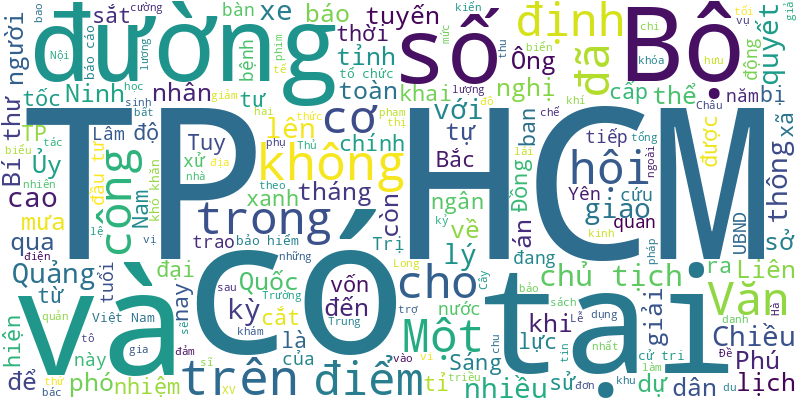
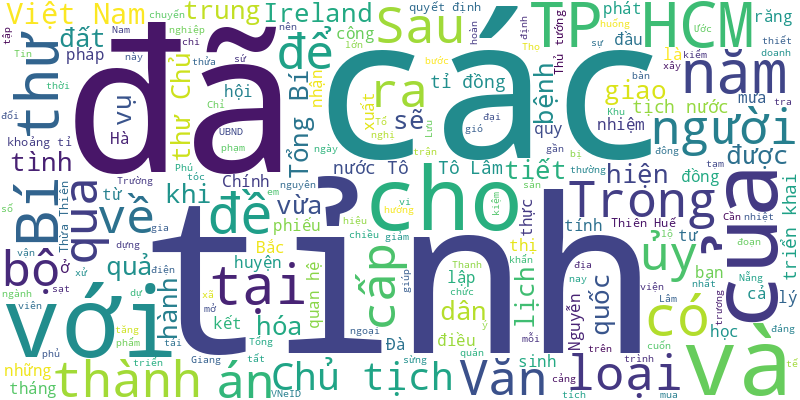
🍀 = 40%

diff --git a/README.md b/README.md
@@ -1,7 +1,18 @@
 # Tuoi Tre RSS 
 
 ## Giáo dục 
+- Giọng nghẹn ngào, em Nguyễn Hà Mi (học sinh lớp 9 Trường THCS Chuế Lưu, huyện Hạ Hòa, tỉnh Phú Thọ) kể về trận lũ đã cuốn trôi căn nhà của gia đình em.
+- Chiều ngày 2-10, tại Văn Miếu - Quốc Tử Giám, Thành Đoàn Hà Nội tổ chức lễ ghi danh sổ vàng thủ khoa xuất sắc thủ đô Hà Nội năm 2024.
+- Các khách mời của tọa đàm 'Đưa tiếng Anh trở thành ngôn ngữ thứ 2 trong trường học: Làm gì để vượt thách thức?' đã dành thời gian phân tích về thuận lợi, khó khăn, thách thức và tìm ra các giải pháp để thực hiện chủ trương này.
+- Ngày 2-10, ông Đào Đức Tuấn - giám đốc Sở Giáo dục và Đào tạo tỉnh Bình Định - cho biết sở đã chấn chỉnh việc 2 trường học vận động thu tiền sai nguyên tắc.
+- Liên quan vụ 'nam sinh thân mật với cô giáo trên bục giảng', hiện cô giáo này đã bị nhà trường tạm đình chỉ công tác trong thời gian giải quyết sự việc.
+- Sở Giáo dục và Đào tạo TP.HCM vừa công bố đề tham khảo thi tuyển sinh lớp 10 năm 2025.
+- Sau một ngày ra quân cao điểm xử lý học sinh vi phạm, cảnh sát giao thông toàn TP.HCM đã xử phạt 296 em vi phạm.
+- Mạng xã hội lan truyền bài viết, kèm hình ảnh một nam sinh có hành động thân mật với một cô gái tại bàn giáo viên và cho rằng cô gái trong clip là giáo viên.
+- Ngoài khu đô thị Đại học Quốc gia TP.HCM đã hoạt động, TP.HCM còn có ba dự án khu đô thị đại học và giáo dục tập trung.
+- Liên quan vụ việc phụ huynh xông vào trường đánh học sinh lớp 8, nhà trường đã kỷ luật 3 học sinh tham gia đánh nhau.
 - Kết quả điều tra gian lận khoa học về một giáo sư y khoa nổi tiếng của Đại học California tại San Diego (UCSD, Mỹ) đang gây rúng động giới y khoa toàn cầu.
+- Chủ trương đưa tiếng Anh thành ngôn ngữ thứ hai trong trường học là chủ trương đúng đắn, phù hợp với điều kiện Việt Nam trong bối cảnh toàn cầu hóa. Nhưng chủ trương này sẽ gặp không ít thách thức cần được hóa giải.
 - Vụ cô giáo 'xin' phụ huynh hỗ trợ mua laptop để giảng dạy nhanh chóng trở thành tâm điểm dư luận và dấy lên nhiều tranh luận.
 - Phiên chất vấn giả định "Quốc hội trẻ em" đặt ra vấn đề có thật, không dễ chấm dứt trong học đường.
 - Một phụ huynh lái ô tô vào sân Trường THCS-THPT Chu Văn An (TP Móng Cái, Quảng Ninh) rồi tông trúng một học sinh đi xe đạp điện.
@@ -20,49 +31,38 @@
 - Làm sao để không còn "hội chứng" sợ đi họp phụ huynh vì tình trạng lạm thu quỹ trường, quỹ lớp?
 - Bộ Giáo dục và Đào tạo nhất trí với dự thảo trình Thủ tướng về lịch nghỉ Tết âm lịch, Quốc khánh 2025.
 - Sáng 30-9, cô H., giáo viên tại Trường tiểu học Chương Dương, quận 1, TP.HCM - người xin phụ huynh hỗ trợ laptop, đã gặp gỡ báo chí để trần tình về sự việc.
-- Nhà bị nước lũ cuốn trôi hoàn toàn, bố mất, mong muốn của Bàn Văn Trường là anh em tiếp tục được đến trường, góp phần nhỏ giúp mẹ mua đồ đạc trong gia đình, sách vở, đồ dùng học tập.
-- Nhờ hai bài kiểm tra đặc biệt, phụ huynh hiểu con mình hơn, cảm thông nhiều hơn với lứa tuổi ẩm ương để sau đó tự điều chỉnh cách ứng xử với con.
-- Học viện Ngoại giao đoạt á quân. Đồng giải ba cuộc thi thuộc về một đội thi khác của Học viện Ngoại giao và Trường đại học Luật TP.HCM.
-- Cô học trò mồ côi sau bão Chanchu Vương Thị Linh Kiều vừa được Trường đại học Duy Tân ở Đà Nẵng trao học bổng toàn phần trị giá hơn 132 triệu đồng.
-- Lòng tự trọng, danh dự và sự tôn nghiêm của người thầy là tài sản quý giá nhất mà bất kỳ ai đứng trên bục giảng cũng cần gìn giữ.
-- Xuất khẩu lao động giúp có thu nhập sớm, được mở mang kiến thức và trải nghiệm xã hội. Nhưng có nên chọn mà bỏ học đại học?
-- Tại lễ khai giảng năm 2024 - 2025, HUFLIT đã nhận chứng nhận kiểm định chất lượng giáo dục ngành Đông phương học, nâng tổng số chương trình đào tạo đạt chuẩn kiểm định lên 7 ngành.
-- Sau vụ cô giáo xin phụ huynh hỗ trợ mua laptop, rất nhiều bạn đọc lên tiếng đề nghị ngành giáo dục phải nghiêm cấm giáo viên, nhà trường mượn danh nghĩa hội phụ huynh để thu tiền phụ huynh...
-- Bộ trưởng Bộ Giáo dục và Đào tạo Nguyễn Kim Sơn khẳng định tại phiên họp giả định "Quốc hội trẻ em" được tổ chức ngày 29-9.
-- Công an phường đã mời phụ huynh xông vào lớp đánh học sinh lớp 8 làm việc và đang củng cố hồ sơ tham mưu Công an Tam Kỳ xử lý.
-- Nhiều tạp chí quốc tế gỡ bỏ bài báo khoa học của tác giả Việt Nam, từ các nhà nghiên cứu danh tiếng đến các ứng viên giáo sư, phó giáo sư.
 ![Edu](Edu.png)
 ## Thời Sự 
-- Với tuyến đường sắt tốc độ cao Bắc - Nam, nếu đầu tư công sẽ sử dụng 100% vốn ngân sách, có thể cân đối từ nguồn thu chi.
-- Ông Lê Văn Phước, phó chủ tịch Ủy ban nhân dân tỉnh An Giang, bị kỷ luật khiển trách do đã có những vi phạm, khuyết điểm trong công tác.
-- Sáng 2-10, Đại hội đại biểu MTTQ Việt Nam TP.HCM lần thứ XII, nhiệm kỳ 2024-2029 chính thức khai mạc.
-- Cây xanh tại nhiều tuyến đường được cắt tỉa để đảm bảo an toàn trong mùa mưa. Tuy nhiên có nhiều cây xanh bị cắt trụi lủi, chỉ còn trơ thân.
-- Một số tin tức đáng chú ý: TP.HCM sắp đón triều cường, nguy cơ vỡ bờ bao; Lịch trả lương hưu, trợ cấp bảo hiểm xã hội tháng 10; Đề xuất giao PVN thí điểm làm điện gió ngoài khơi...
-- Hôm nay 2-10, không khí lạnh chi phối toàn bộ thời tiết Bắc Bộ. Trung Bộ, Tây Nguyên mưa to, Nam Bộ chiều tối có mưa rào.
-- Tỉ lệ chấp thuận các khuyến nghị là 84,7%, cao nhất trong số 4 chu kỳ theo cơ chế UPR mà Việt Nam đã tham gia tại Hội đồng Nhân quyền Liên Hiệp Quốc.
-- Tối 1-10, tại xã đảo Minh Châu (huyện Vân Đồn, Quảng Ninh) xảy ra vụ cháy rừng. Hiện lực lượng chức năng đang tổ chức khống chế không để lan rộng.
-- Bộ Tư pháp đang thẩm định dự thảo nghị định quy định quản lý, sử dụng kinh phí thu từ xử phạt vi phạm hành chính về trật tự, an toàn giao thông đường bộ và đấu giá biển số xe sau khi nộp vào ngân sách nhà nước.
-- Cử tri TP.HCM, Quảng Ninh, Phú Yên... kiến nghị xem xét giảm hoặc hỗ trợ mức đóng bảo hiểm y tế khi lương cơ sở tăng lên gây khó khăn cho người dân.
-- Một phụ huynh lái ô tô vào sân Trường THCS-THPT Chu Văn An (TP Móng Cái, Quảng Ninh) rồi tông trúng một học sinh đi xe đạp điện.
-- Liên quan vụ cơ sở phòng khám có người giả danh bác sĩ khám chữa bệnh cho người dân tại Gia Lai, nhân vật giả danh bác sĩ có lời khai rất bất ngờ.
-- Chiều 1-10, tổ đại biểu Quốc hội TP.HCM đơn vị số 1 đã có buổi tiếp xúc cử tri TP Thủ Đức trước kỳ họp thứ 8 - Quốc hội khóa XV. Tại đây, cử tri đã kiến nghị giải quyết dứt điểm khiếu nại liên quan khu đô thị Thủ Thiêm.
-- Nhiều con hổ và báo đã chết tại hai khu du lịch trên địa bàn tỉnh Đồng Nai và Long An, nghi do nhiễm cúm A/H5N1.
-- Chiều 1-10, tại Hà Nội, Bộ Văn hóa, Thể thao và Du lịch tổ chức Lễ tổng kết và trao giải thưởng cuộc thi Sáng tác kịch bản phim truyện, phim tài liệu năm 2023-2024 hướng tới kỷ niệm 100 năm Ngày thành lập Đảng Cộng sản Việt Nam.
-- Hàng chục trường hợp học sinh lái xe khi chưa đủ tuổi, không đội mũ bảo hiểm... bị cảnh sát xử lý trong chiều 1-10 tại quận Long Biên (Hà Nội).
-- Dự báo trong đêm nay và sáng mai (2-10), lũ trên sông Hồng đoạn qua Yên Bái có thể lên trên mức báo động 3 khoảng 0,7m. Cơ quan khí tượng cảnh báo ngập lụt tại 24 xã, phường ở tỉnh này.
-- Mưa lớn khiến lũ trên sông Hồng lên nhanh, nên lực lượng công binh phải cắt nhịp cầu phao Phong Châu (Phú Thọ) để bảo đảm an toàn, giao thông qua cầu phao tạm thời gián đoạn.
-- Với tinh thần tự lực, tự cường và tự chủ, Bộ Chính trị quyết định không phụ thuộc vốn vay nước ngoài khi đầu tư đường sắt tốc độ cao Bắc - Nam.
-- Sau một tháng TP.HCM triển khai chiến dịch tiêm vắc xin sởi, hiện tỉ lệ bao phủ 2 mũi cho trẻ từ 1 - 5 tuổi đạt hơn 95% về lý thuyết, tuy nhiên số ca mắc còn giảm chậm, với 111 ca trong tuần gần nhất.
-- Cao tốc Vạn Ninh - Cam Lộ qua Quảng Trị còn 200m mặt bằng chưa thể bàn giao nhiều tháng qua, ảnh hưởng lớn đến tiến độ. Vì sao Công ty cổ phần Lâm sản Quảng Trị lại không chịu di dời, dù liên tục được vận động.
-- Về giải ngân vốn đầu tư công, Bí thư Thành ủy TP.HCM Nguyễn Văn Nên cho biết đơn vị nào có khó khăn thì báo cáo chủ tịch, phó chủ tịch, không thì báo cáo bí thư. Ông sẽ như ChatGPT, tiếp nhận thông tin bất cứ lúc nào.
-- Chiều 1-10, UBND TP.HCM tổ chức lễ trao quyết định cán bộ, Chủ tịch UBND TP.HCM Phan Văn Mãi đã trao quyết định điều động và bổ nhiệm giám đốc Sở Tư pháp, chủ tịch quận Bình Thạnh, Tân Phú.
-- TP Tuy Hòa (Phú Yên) lên kế hoạch ra quân xử lý người lang thang, ăn xin trên địa bàn, để đến cuối năm 2024 không còn tình trạng này.
-- Ông Phan Công Bằng, phó giám đốc Sở Giao thông vận tải TP.HCM, làm trưởng Ban Quản lý đường sắt đô thị tại thời điểm TP.HCM vừa xây dựng đề án 183km metro, với nhiều kỳ vọng và thách thức.
-- Cùng với 5 dự án BOT đường hiện hữu, TP.HCM cũng nghiên cứu xây dựng đường trên cao một số tuyến nữa. Điểm chung của những tuyến đường này là có đông đúc nhà dân hai bên, xe cộ ùn ứ diễn ra mỗi ngày.
-- Một chiếc xe cấp cứu biển số xanh của Trung tâm Cấp cứu 115 Khánh Hòa hết hạn đăng kiểm hơn 2 tháng nay nhưng vẫn vô tư lưu thông trên đường, đưa bệnh nhân đến bệnh viện.
-- Khép lại chuyến thăm Mông Cổ, Tổng Bí thư, Chủ tịch nước Tô Lâm lên chuyên cơ đến điểm dừng chân tiếp theo là Ireland cho chuyến thăm mang tính lịch sử.
-- UBND TP.HCM vừa có báo cáo Ủy ban Kinh tế Quốc hội khóa XV về vướng mắc và phương án giải quyết khó khăn đang gặp của dự án ngăn triều 10.000 tỉ.
-- Ông Trần Đình Văn, phó bí thư thường trực Tỉnh ủy Lâm Đồng nhiệm kỳ 2020 - 2025, được cho nghỉ hưu ở tuổi 58.
+- Tại đại học Trinity Dublin, Tổng Bí thư, Chủ tịch nước Tô Lâm đã nêu thành ngữ của Ireland: 'Trong tất cả những mối quan hệ, tình bạn là tốt nhất và sẽ luôn là như vậy'.
+- Sau gần 30 năm thiết lập quan hệ ngoại giao, Việt Nam đã quyết định mở đại sứ quán tại Ireland. Đây sẽ là bước hiện thực hóa những kết quả từ chuyến thăm của Tổng Bí thư, Chủ tịch nước Tô Lâm.
+- Khi người dân thực hiện cấp phiếu lý lịch tư pháp trên VNeID sẽ giúp tiết kiệm khoảng 400 tỉ đồng mỗi năm cho xã hội.
+- Chỉ trong vòng hơn hai tháng có tới sáu vụ tàu trật bánh tại đoạn đường sắt qua địa bàn tỉnh Thừa Thiên Huế. Điều này có bất thường?
+- TP.HCM vừa đưa ra các quy định cụ thể về trách nhiệm của người đứng đầu và các biện pháp xử lý nếu để xảy ra các vi phạm.
+- Ước tính 1,6 triệu m³ đất đá sạt trượt, xuất phát từ đỉnh núi Con Voi xuống thôn Làng Nủ với chiều dài khoảng 3,6km.
+- Do sự tranh chấp giữa các hình thái thời tiết nên xuất hiện nhiễu động gió gây mưa lớn cho TP.HCM và các tỉnh lân cận trong chiều nay 3-10.
+- Giọng nghẹn ngào, em Nguyễn Hà Mi (học sinh lớp 9 Trường THCS Chuế Lưu, huyện Hạ Hòa, tỉnh Phú Thọ) kể về trận lũ đã cuốn trôi căn nhà của gia đình em.
+- UBND tỉnh Lâm Đồng vừa ban hành quyết định quy định về điều kiện, diện tích tối thiểu được tách thửa đất, hợp thửa đất với từng loại đất trên địa bàn tỉnh.
+- Tháng 12-2024, Đà Nẵng hoàn thành việc xây dựng đề án, hồ sơ thành lập Khu thương mại tự do Đà Nẵng.
+- Tin tức đáng chú ý: 3.300 doanh nghiệp thiệt hại do bão được đề xuất tạm dừng đóng 2 loại quỹ; Bắc Giang công bố tình huống khẩn cấp sạt lở ở 3 huyện; Thị trường trái phiếu doanh nghiệp đã qua giai đoạn khó khăn nhất?...
+- Hôm nay 3-10, thời tiết Bắc Bộ nhiệt độ giảm mạnh, trời lạnh, ngày nắng. Nam Bộ mưa có xu hướng tăng.
+- Từ chiếc sừng trâu, sừng bò xù xì nhưng khi qua tay thợ lành nghề đã ra những sản phẩm mỹ nghệ tinh xảo. Chỉ riêng lược cả trăm loại dùng cho tóc thẳng, tóc xoăn; loại răng thưa, răng nhỏ, răng dày và đủ kiểu dáng, hoa văn được bán ra nước ngoài.
+- Tổng Bí thư, Chủ tịch nước Tô Lâm cho hay Việt Nam đang hoàn tất các thủ tục để mở đại sứ quán tại Ireland, sau gần 30 năm thiết lập quan hệ ngoại giao.
+- Mẫu bệnh phẩm hổ chết ở khu du lịch Vườn Xoài (Đồng Nai) dương tính với cúm A/H5N1.
+- Phó thủ tướng Trần Hồng Hà đã giao nhiệm vụ cho TP.HCM và các bộ ngành về lộ trình triển khai đề án nghiên cứu xây dựng cảng trung chuyển quốc tế Cần Giờ.
+- Việt Nam đã giao thiệp nghiêm khắc, phản đối cách hành xử 'thô bạo' của Trung Quốc với ngư dân tại quần đảo Hoàng Sa của Việt Nam, yêu cầu không tái diễn.
+- Sau khi lãnh đạo TP.HCM trình Thủ tướng Chính phủ phương án tháo gỡ vướng mắc đối với dự án ngăn triều 10.000 tỉ đồng, Văn phòng Chính phủ đã có công văn hỏa tốc lấy ý kiến các bộ ngành.
+- Sau 4 tháng triển khai thí điểm cấp phiếu lý lịch tư pháp qua ứng dụng VNeID tại Hà Nội và Thừa Thiên Huế, bước đầu đã mang lại hiệu quả đáng ghi nhận, nhận được sự ủng hộ nhiệt tình của người dân.
+- Tổng thống Ireland Michael D. Higgins chủ trì lễ đón Tổng Bí thư, Chủ tịch nước Tô Lâm, sau đó mời ông trồng cây lưu niệm cho chuyến đi lịch sử.
+- Giám đốc Bệnh viện Bạch Mai thông tin bệnh viện này phải chi khoảng 50 tỉ đồng/năm để mua phim in cho người bệnh. Trong khi sổ sức khỏe điện tử mỗi năm ước tính giúp tiết kiệm khoảng 1.150 tỉ đồng tiền mua y bạ.
+- Nhân viên người Việt vận hành thử tuyến metro số 1 (TP.HCM) với 47 kịch bản, bao gồm cả tình huống khẩn cấp.
+- Ba đăng kiểm viên thuộc Chi cục Thủy sản Thừa Thiên Huế vừa bị khởi tố, bắt tạm giam để điều tra hành vi nhận hối lộ.
+- Thủ tướng Phạm Minh Chính vừa ký quyết định phê chuẩn kết quả bầu chức vụ chủ tịch UBND tỉnh An Giang nhiệm kỳ 2021 - 2026.
+- Trong lúc mưa lớn, tài xế lái xe tải qua một đập tràn tại Đà Lạt và bị nước cuốn mất tích.
+- Bí thư Thành ủy TP.HCM Nguyễn Văn Nên đề nghị Mặt trận Tổ quốc Việt Nam TP.HCM triển khai có hiệu quả các cuộc vận độn đảm bảo an sinh xã hội.
+- Ủy ban Kiểm tra Trung ương đề nghị kỷ luật nguyên bí thư Tỉnh ủy Tuyên Quang Chẩu Văn Lâm, nguyên bí thư Tỉnh ủy Phú Thọ Ngô Đức Vượng, Nguyễn Doãn Khánh.
+- Ngày 2-10, Ban Thường vụ Tỉnh ủy Thanh Hóa tổ chức hội thảo khoa học với chủ đề 'Thanh Hóa với đồng bào, cán bộ, chiến sĩ và học sinh miền Nam tập kết ra Bắc - 70 năm sâu nặng nghĩa tình'.
+- Tỉnh Bến Tre đã cấp chủ trương đầu tư và tập trung triển khai 19 dự án điện gió với tổng công suất 1.007,7 MW ở các huyện phía đông của tỉnh để hiện thực hóa chủ trương phát triển năng lượng tái tạo về hướng đông của tỉnh.
+- Quy hoạch đến năm 2030, Cần Giuộc sẽ thành đô thị loại III. Phát triển đô thị gắn với Cảng quốc tế Long An, có vai trò hỗ trợ, giảm áp lực gia tăng dân số cho TP.HCM.
 ![New](News.png)
 ## Nhịp sống số 
 - Viettel đang tăng tốc chuyển đổi cho 500.000 thuê bao 2G cuối cùng trước ngày tắt sóng 15-10.
